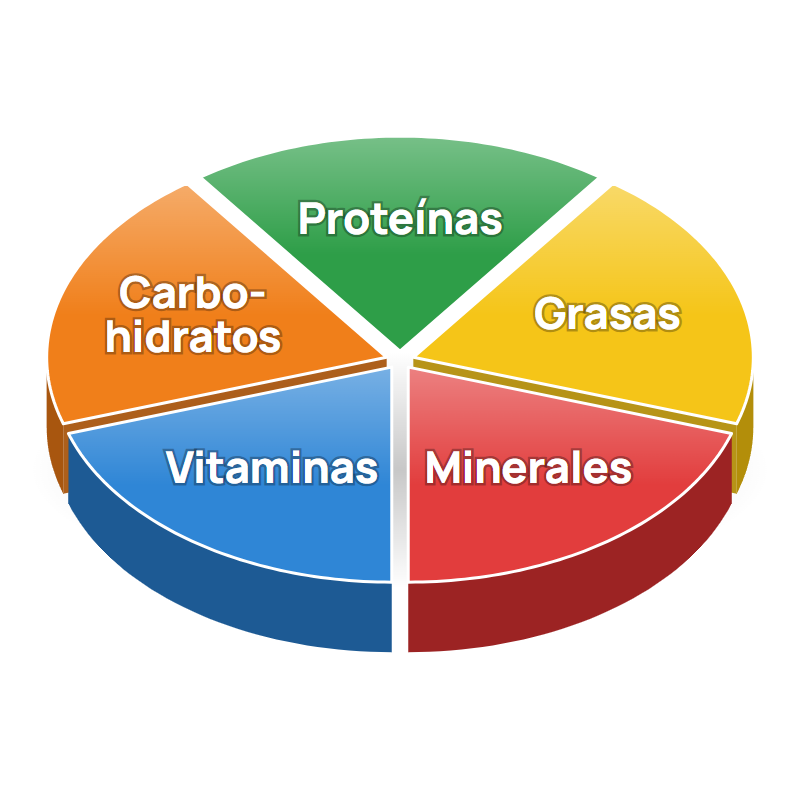
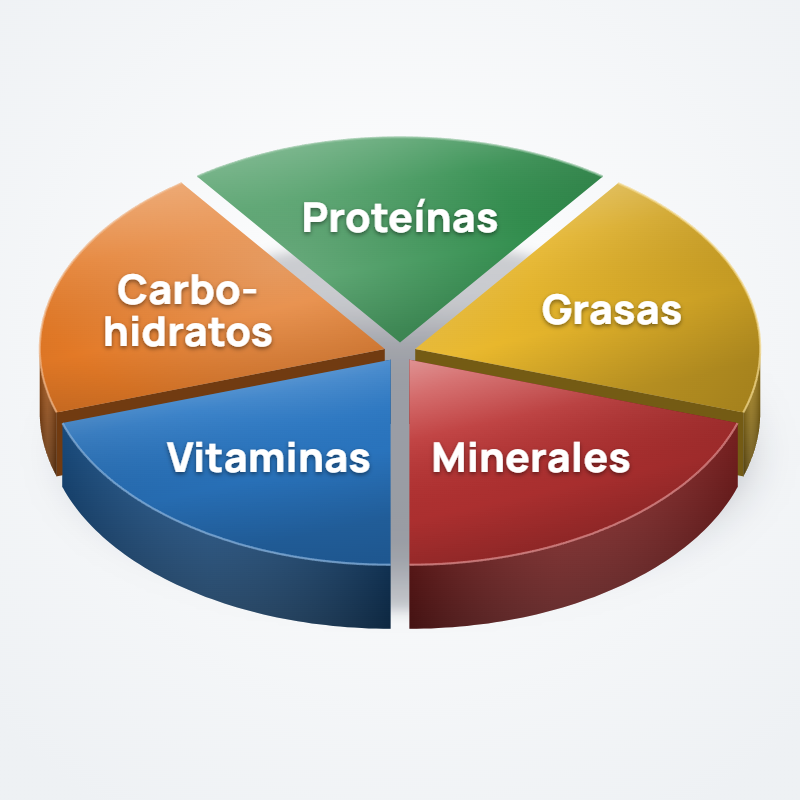
Nutrientes: torta con acabado más realista

diff --git a/index.html b/index.html
@@ -6930,7 +6930,7 @@ function fotoModo(id){
     const r = recetas.find(x => x.foto);
     return r ? photoUrl(r.foto, 400) : MODO_FOTOS.recetasProducto;
   }
-  return "img/nutrientes.png"; // torta de nutrientes (img/nutrientes.png)
+  return "img/nutrientes.png?v=2"; // torta de nutrientes (img/nutrientes.png)
 }
 function iconoModo(el, m){
   const foto = fotoModo(m.id);
